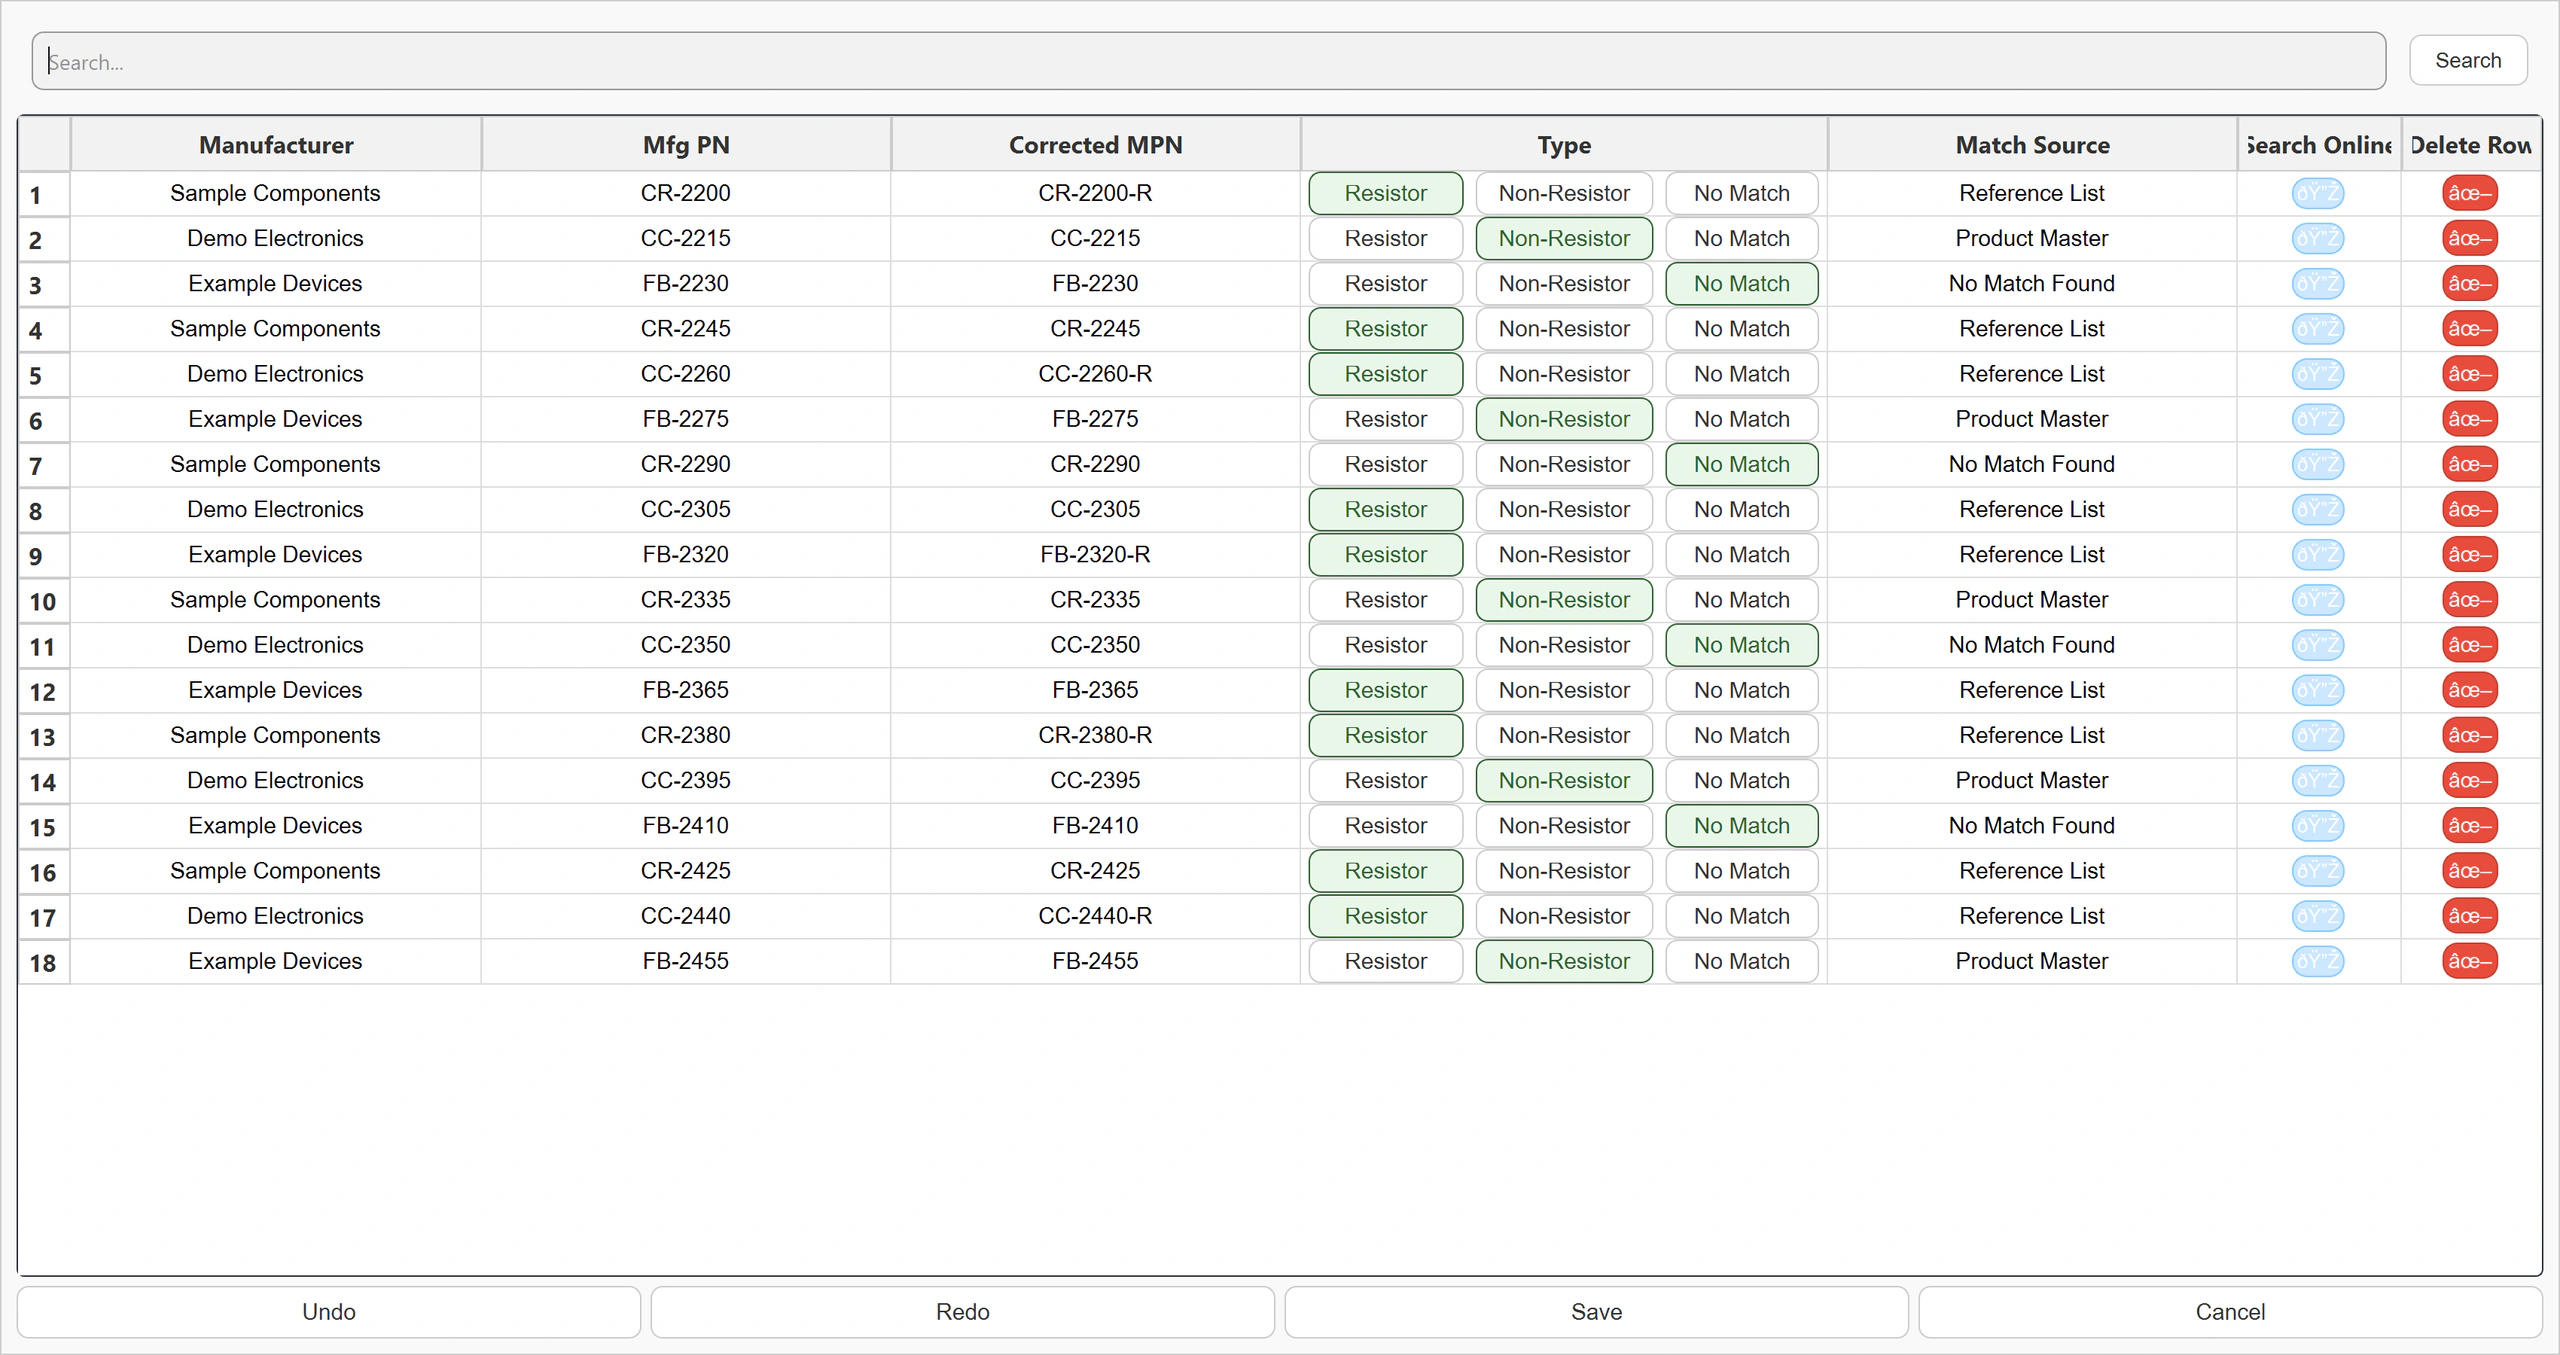
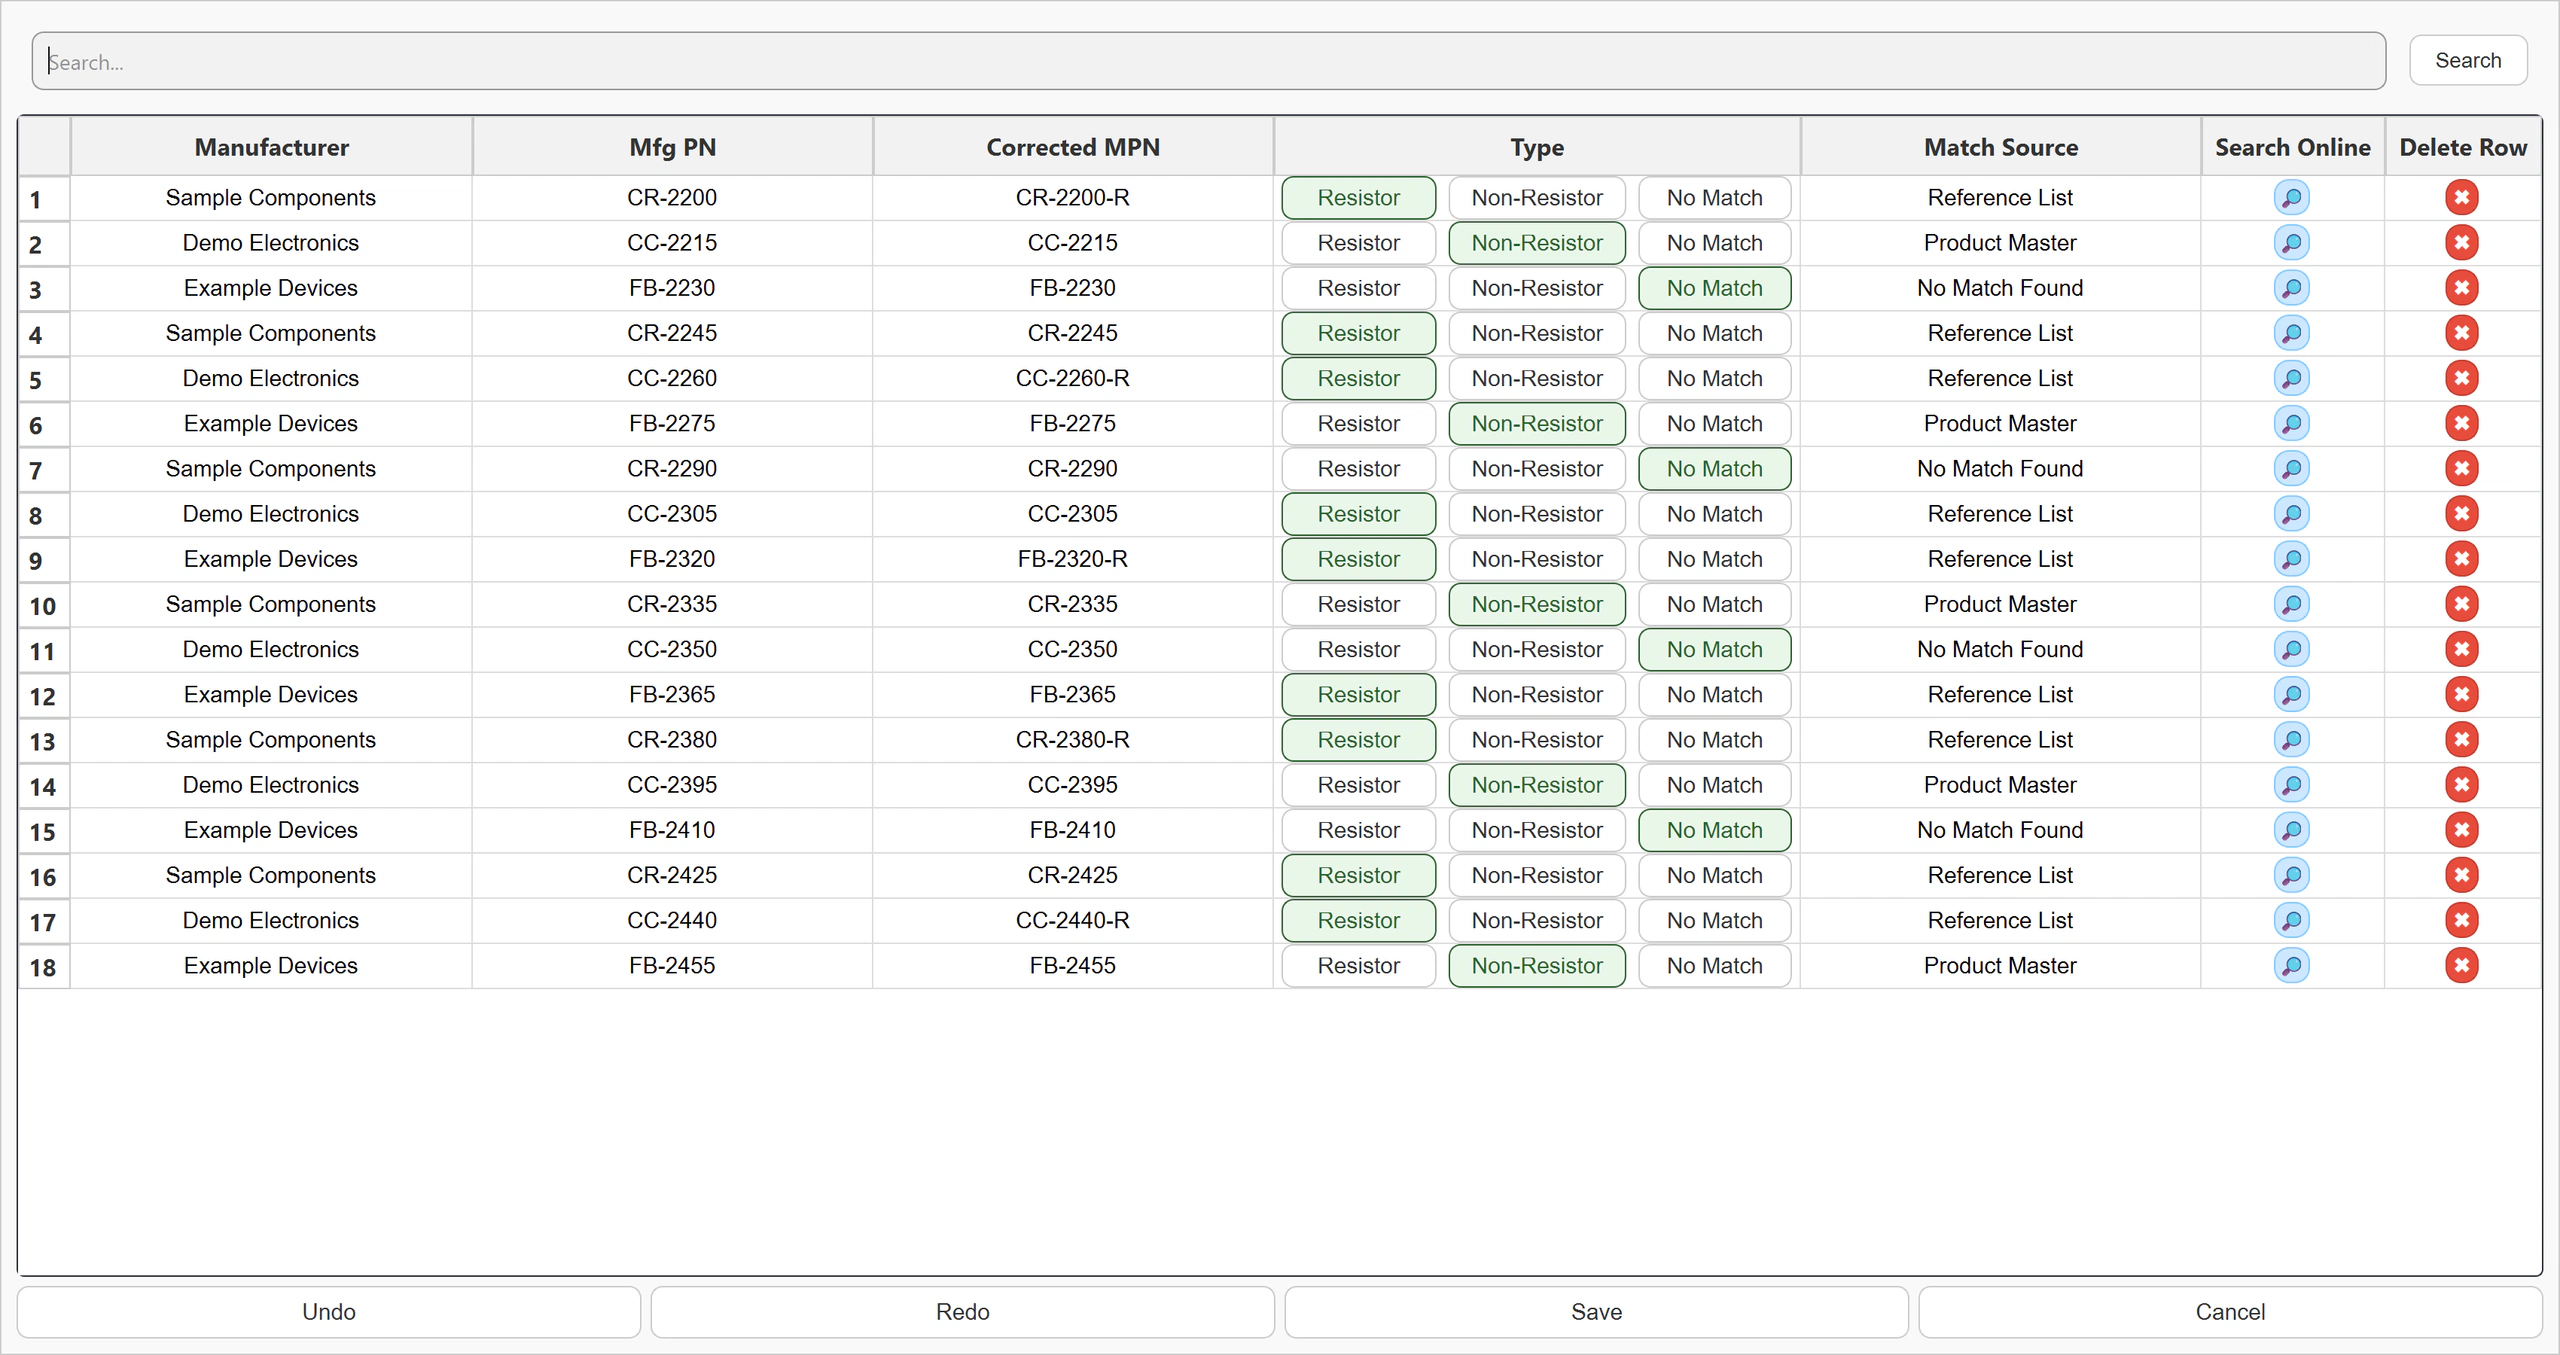
Refresh GNX quotation editor preview after native glyph and header fix

diff --git a/gnx/index.html b/gnx/index.html
@@ -218,7 +218,7 @@
           <button type="button" data-next aria-label="Next Quotation Engine screenshot" disabled><svg width="18" height="18" viewBox="0 0 24 24" fill="none" stroke="currentColor" stroke-width="1.4" stroke-linecap="round" stroke-linejoin="round" aria-hidden="true"><path d="m10 5 7 7-7 7"/></svg></button>
         </div>
         <div class="gallery-caption"><p>Matches parts, resolves exceptions, and prepares customer quotations.</p><span data-slide-caption>Part-number validation and revalidation</span></div>
-        <noscript><div class="capture-fallback"><a href="assets/screens/quotation/full.webp?v=3a29083a7ee5">Part-number validation and revalidation</a><a href="assets/screens/quotation-builder/full.webp?v=eb1a51a6d947">Quotation output builder</a><a href="assets/screens/quotation-mpn-editor/full.webp?v=f15b25f281e2">Part-number editor · example parts</a><a href="assets/screens/quotation-output-editor/full.webp?v=36e66daa22f7">Final output editor · example pricing</a></div></noscript>
+        <noscript><div class="capture-fallback"><a href="assets/screens/quotation/full.webp?v=3a29083a7ee5">Part-number validation and revalidation</a><a href="assets/screens/quotation-builder/full.webp?v=eb1a51a6d947">Quotation output builder</a><a href="assets/screens/quotation-mpn-editor/full.webp?v=6982d4a9a65c">Part-number editor · example parts</a><a href="assets/screens/quotation-output-editor/full.webp?v=36e66daa22f7">Final output editor · example pricing</a></div></noscript>
       </article>
 
       <article class="gallery-app gallery-feature" data-gallery-app="forecast" id="forecast" aria-labelledby="forecast-heading">
@@ -275,7 +275,7 @@
     </div>
     <div class="lightbox-footer"><a id="viewer-original" target="_blank" rel="noopener noreferrer">Full resolution <svg width="16" height="16" viewBox="0 0 24 24" fill="none" stroke="currentColor" stroke-width="1.4" stroke-linecap="round" stroke-linejoin="round" aria-hidden="true"><path d="M8 4h12v12M20 4 5 19"/></svg></a></div>
   </dialog>
[2 lines of base64/hex data omitted]
   <script src="../gallery.js" type="module"></script>
   <script src="preview.js?v=aa417287d2" type="module"></script>
 </body>
